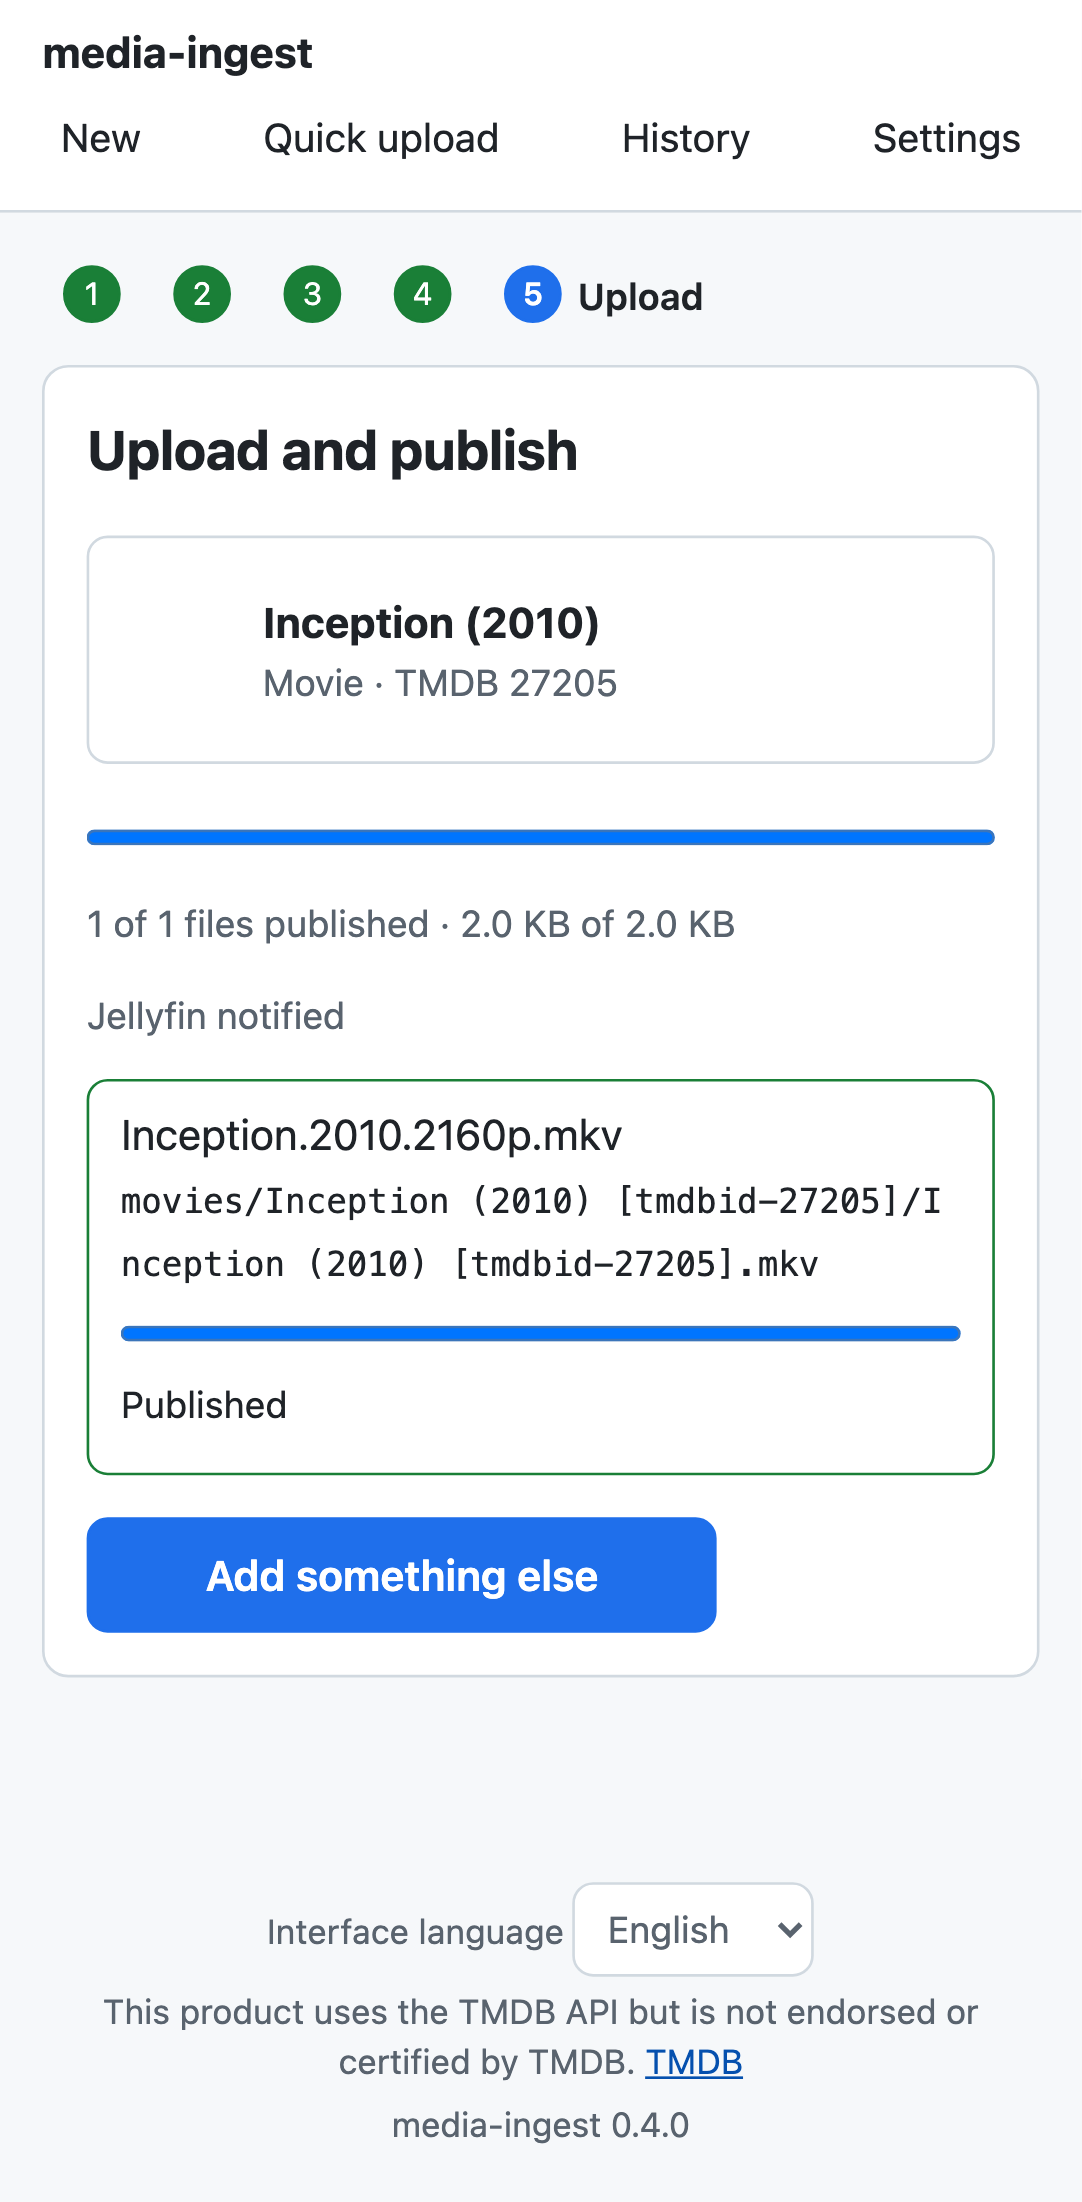
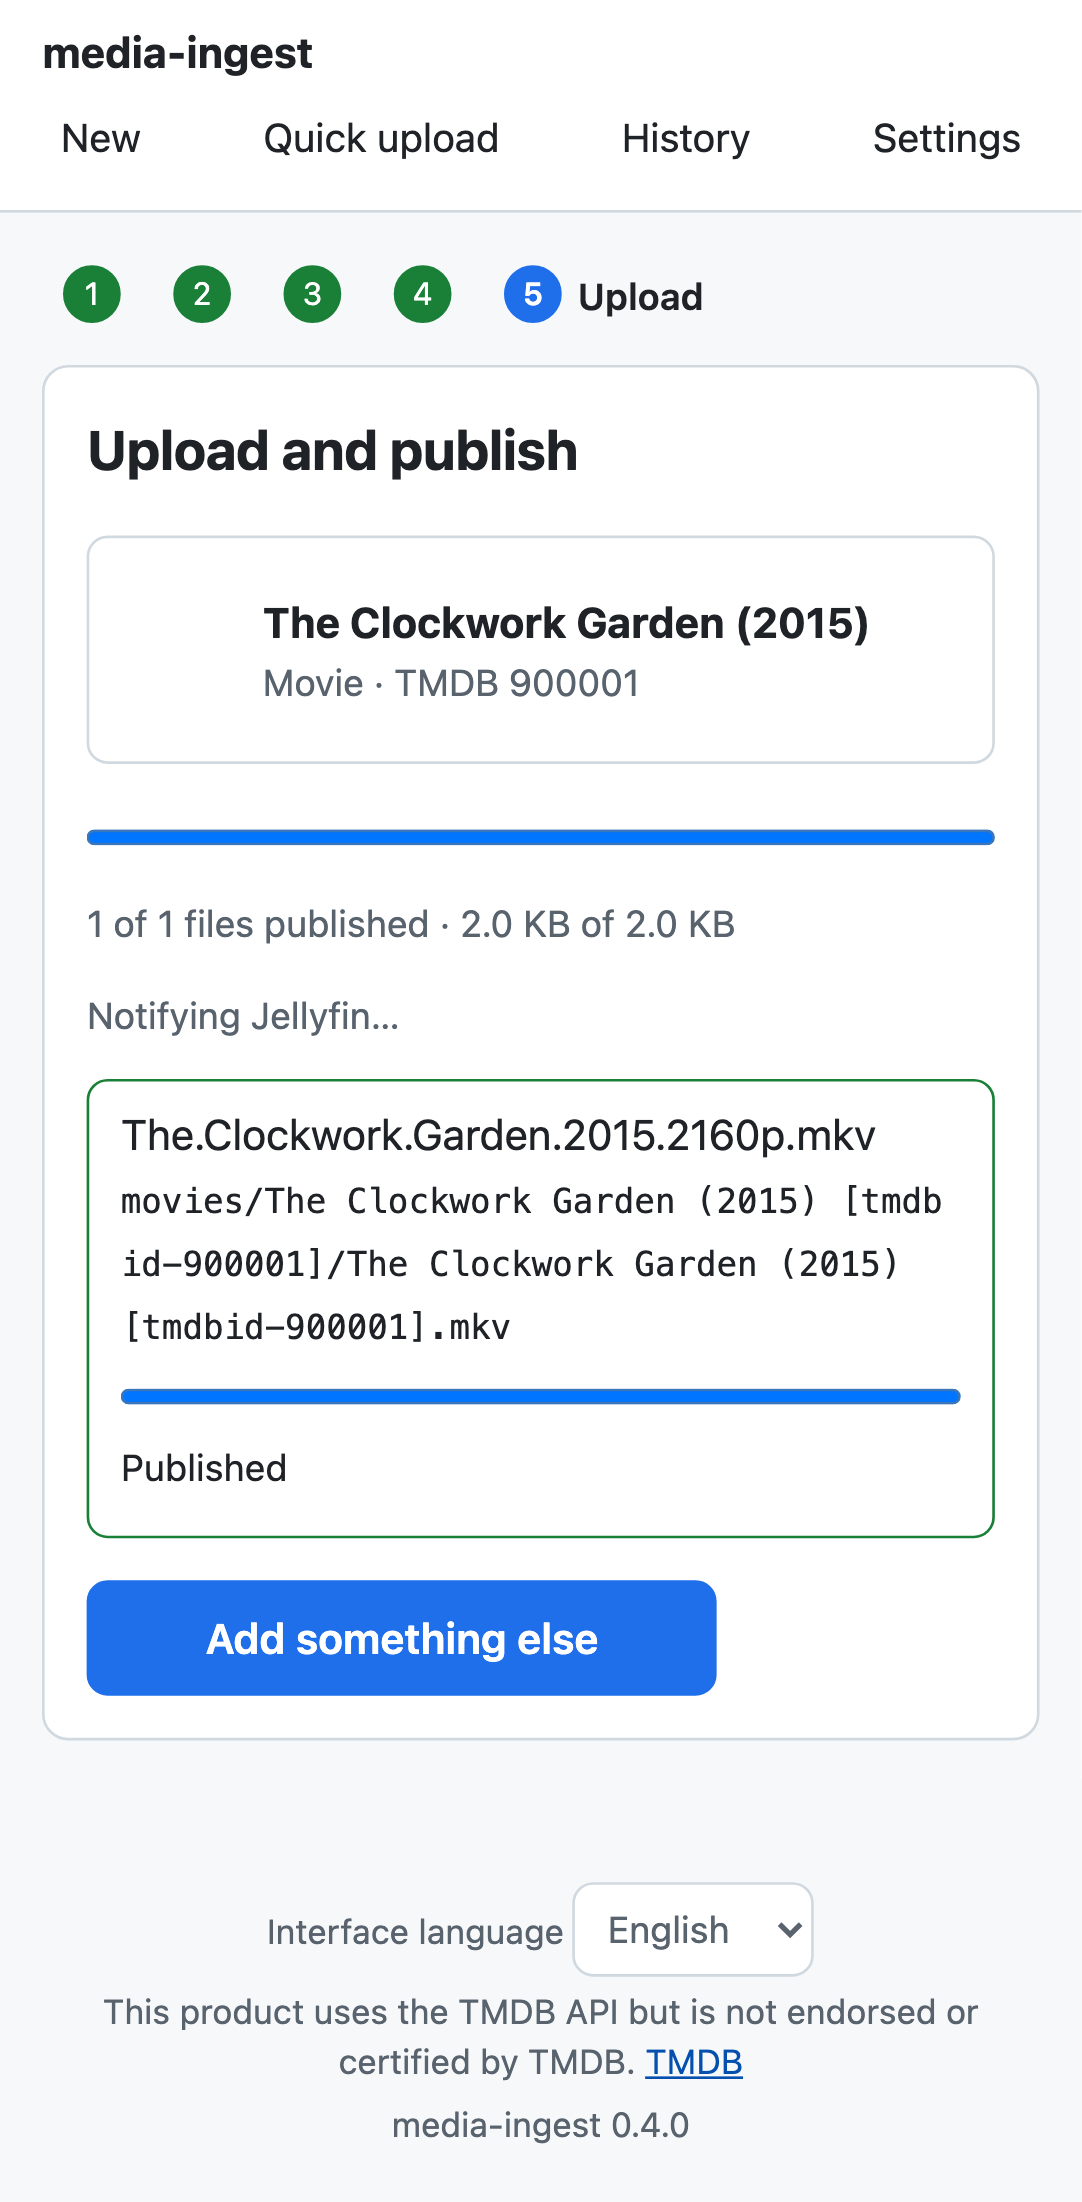
Update docs

Changed region(s): [[0.061, 0.4323, 0.8845, 0.772], [0.244, 0.2779, 0.8235, 0.3397], [0.0915, 0.4323, 0.183, 0.4632]]

diff --git a/internal/server/server_test.go b/internal/server/server_test.go
@@ -198,7 +198,7 @@ func TestStrictJSON(t *testing.T) {
 }
 
 func movieReq(items ...map[string]any) map[string]any {
-	return map[string]any{"provider": "tmdb", "id": "27205", "language": "en-US", "folder": map[string]any{"mode": "auto"}, "items": items}
+	return map[string]any{"provider": "tmdb", "id": "900001", "language": "en-US", "folder": map[string]any{"mode": "auto"}, "items": items}
 }
 
 func movieItem(key, name string, size int) map[string]any {
@@ -236,8 +236,8 @@ func (e *env) upload(batchID, itemID string, data []byte) {
 
 func TestMovieFlowEndToEnd(t *testing.T) {
 	e := newEnv(t, config.AuthProxy)
-	req := movieReq(movieItem("m1", "Inception.2010.1080p.BluRay.mkv", 10),
-		map[string]any{"key": "s1", "name": "inception.en.forced.srt", "size": 4, "role": "subtitle", "lang": "en", "forced": true},
+	req := movieReq(movieItem("m1", "The.Clockwork.Garden.2015.1080p.BluRay.mkv", 10),
+		map[string]any{"key": "s1", "name": "clockwork.en.forced.srt", "size": 4, "role": "subtitle", "lang": "en", "forced": true},
 		map[string]any{"key": "x1", "name": "trailer.mp4", "size": 6, "role": "extra", "extraType": "trailer", "label": "Official Trailer"})
 
 	var plan ingest.Plan
@@ -245,9 +245,9 @@ func TestMovieFlowEndToEnd(t *testing.T) {
 		t.Fatalf("plan: %d", code)
 	}
 	want := map[string]string{
-		"m1": "movies/Inception (2010) [tmdbid-27205]/Inception (2010) [tmdbid-27205].mkv",
-		"s1": "movies/Inception (2010) [tmdbid-27205]/Inception (2010) [tmdbid-27205].en.forced.srt",
-		"x1": "movies/Inception (2010) [tmdbid-27205]/Trailers/Official Trailer.mp4",
+		"m1": "movies/The Clockwork Garden (2015) [tmdbid-900001]/The Clockwork Garden (2015) [tmdbid-900001].mkv",
+		"s1": "movies/The Clockwork Garden (2015) [tmdbid-900001]/The Clockwork Garden (2015) [tmdbid-900001].en.forced.srt",
+		"x1": "movies/The Clockwork Garden (2015) [tmdbid-900001]/Trailers/Official Trailer.mp4",
 	}
 	for _, it := range plan.Items {
 		if it.Path != want[it.Key] {
@@ -285,7 +285,7 @@ func TestMovieFlowEndToEnd(t *testing.T) {
 			t.Errorf("%s mode %v", it.Key, fi.Mode().Perm())
 		}
 	}
-	di, _ := os.Stat(filepath.Join(e.media, "movies/Inception (2010) [tmdbid-27205]"))
+	di, _ := os.Stat(filepath.Join(e.media, "movies/The Clockwork Garden (2015) [tmdbid-900001]"))
 	if di.Mode().Perm() != 0o755 {
 		t.Errorf("dir mode %v", di.Mode().Perm())
 	}
@@ -307,7 +307,7 @@ func TestMovieFlowEndToEnd(t *testing.T) {
 	e.json("POST", "/api/batches/movie", req2, &batch)
 	e.upload(batch.ID, batch.Items[0].ID, []byte("new"))
 	e.json("GET", "/api/batches/"+batch.ID, nil, &got)
-	if p := got.Items[0].FinalPath; p != "movies/Inception (2010) [tmdbid-27205]/Inception (2010) [tmdbid-27205] - Version 2.mkv" {
+	if p := got.Items[0].FinalPath; p != "movies/The Clockwork Garden (2015) [tmdbid-900001]/The Clockwork Garden (2015) [tmdbid-900001] - Version 2.mkv" {
 		t.Fatalf("keep both path %q", p)
 	}
 	if b, _ := os.ReadFile(filepath.Join(e.media, want["m1"])); string(b) != "0123456789" {
@@ -358,7 +358,7 @@ func TestHostileInputs(t *testing.T) {
 		req  map[string]any
 		code string
 	}{
-		"junk":         {movieReq(movieItem("m1", "._Inception.mkv", 5)), "junk_file"},
+		"junk":         {movieReq(movieItem("m1", "._Clockwork.mkv", 5)), "junk_file"},
 		"ds_store":     {movieReq(movieItem("m1", ".DS_Store", 5)), "junk_file"},
 		"extension":    {movieReq(movieItem("m1", "evil.exe", 5)), "extension_not_allowed"},
 		"no extension": {movieReq(movieItem("m1", "noext", 5)), "extension_not_allowed"},
@@ -389,11 +389,11 @@ func TestHostileInputs(t *testing.T) {
 	// A title full of path tricks still yields a single safe folder.
 	var plan ingest.Plan
 	r := movieReq(movieItem("m1", "a.mkv", 5))
-	r["id"] = "100"
+	r["id"] = "900003"
 	if code := e.json("POST", "/api/plan/movie", r, &plan); code != 200 {
 		t.Fatalf("plan: %d", code)
 	}
-	if p := plan.Items[0].Path; p != "movies/Amélie - The Fabulous - Destiny (2001) [tmdbid-100]/Amélie - The Fabulous - Destiny (2001) [tmdbid-100].mkv" {
+	if p := plan.Items[0].Path; p != "movies/Émile - The Lost - Found (2001) [tmdbid-900003]/Émile - The Lost - Found (2001) [tmdbid-900003].mkv" {
 		t.Fatalf("path %q", p)
 	}
 	// An edited display title is sanitized the same way.
@@ -548,22 +548,22 @@ func TestSetupPage(t *testing.T) {
 
 func TestFolderReuseByProviderID(t *testing.T) {
 	e := newEnv(t, config.AuthProxy)
-	os.MkdirAll(filepath.Join(e.media, "movies", "Inception {tmdb-27205}"), 0o755)
-	os.MkdirAll(filepath.Join(e.media, "movies", "Inception (2010)"), 0o755)
+	os.MkdirAll(filepath.Join(e.media, "movies", "The Clockwork Garden {tmdb-900001}"), 0o755)
+	os.MkdirAll(filepath.Join(e.media, "movies", "The Clockwork Garden (2015)"), 0o755)
 	var plan ingest.Plan
 	e.json("POST", "/api/plan/movie", movieReq(movieItem("m1", "a.mkv", 5)), &plan)
-	if plan.Folder != "Inception {tmdb-27205}" || plan.FolderSource != "existing-id" {
+	if plan.Folder != "The Clockwork Garden {tmdb-900001}" || plan.FolderSource != "existing-id" {
 		t.Fatalf("%+v", plan)
 	}
-	os.Remove(filepath.Join(e.media, "movies", "Inception {tmdb-27205}"))
+	os.Remove(filepath.Join(e.media, "movies", "The Clockwork Garden {tmdb-900001}"))
 	e.json("POST", "/api/plan/movie", movieReq(movieItem("m1", "a.mkv", 5)), &plan)
-	if plan.FolderSource != "new" || len(plan.FolderCandidates) != 1 || plan.FolderCandidates[0] != "Inception (2010)" {
+	if plan.FolderSource != "new" || len(plan.FolderCandidates) != 1 || plan.FolderCandidates[0] != "The Clockwork Garden (2015)" {
 		t.Fatalf("%+v", plan)
 	}
 	r := movieReq(movieItem("m1", "a.mkv", 5))
-	r["folder"] = map[string]any{"mode": "existing", "name": "Inception (2010)"}
+	r["folder"] = map[string]any{"mode": "existing", "name": "The Clockwork Garden (2015)"}
 	e.json("POST", "/api/plan/movie", r, &plan)
-	if plan.Items[0].Path != "movies/Inception (2010)/Inception (2010) [tmdbid-27205].mkv" {
+	if plan.Items[0].Path != "movies/The Clockwork Garden (2015)/The Clockwork Garden (2015) [tmdbid-900001].mkv" {
 		t.Fatalf("%q", plan.Items[0].Path)
 	}
 }

diff --git a/internal/naming/naming_test.go b/internal/naming/naming_test.go
@@ -27,7 +27,7 @@ func TestSanitizeComponent(t *testing.T) {
 		{"zero\u200Bwidth", "zerowidth"},     // zero-width space removed
 		{"fake\u2215slash", "fake-slash"},    // division slash
 		{"full\uFF0Fwidth", "full-width"},    // fullwidth solidus
-		{"Ame\u0301lie", "Amélie"},           // NFD -> NFC
+		{"E\u0301mile", "Émile"},             // NFD -> NFC
 		{"Şahsiyet", "Şahsiyet"},             // non-ASCII kept
 		{"a|b", "a-b"},
 		{"<script>", "script"},
@@ -70,18 +70,18 @@ func TestExt(t *testing.T) {
 }
 
 func TestPresetsRender(t *testing.T) {
-	movie := Vars{"title": "Inception", "year": 2010, "id": "27205"}
-	tv := Vars{"show": "Dark", "year": 2017, "id": "70523", "season": 1, "episode": 3, "episode_title": "Past and Present"}
+	movie := Vars{"title": "The Clockwork Garden", "year": 2015, "id": "900001"}
+	tv := Vars{"show": "Northwind", "year": 2017, "id": "900200", "season": 1, "episode": 3, "episode_title": "Old Tides"}
 	tests := []struct {
 		preset, kind string
 		vars         Vars
 		want         string
 	}{
-		{"jellyfin", "movie", movie, "Inception (2010) [tmdbid-27205]/Inception (2010) [tmdbid-27205]"},
-		{"plex", "movie", movie, "Inception (2010) {tmdb-27205}/Inception (2010) {tmdb-27205}"},
-		{"emby", "movie", movie, "Inception (2010) [tmdbid=27205]/Inception (2010)"},
-		{"jellyfin", "tv", tv, "Dark (2017) [tmdbid-70523]/Season 01/Dark - S01E03 - Past and Present"},
-		{"plex", "tv", tv, "Dark (2017) {tmdb-70523}/Season 01/Dark (2017) - s01e03 - Past and Present"},
+		{"jellyfin", "movie", movie, "The Clockwork Garden (2015) [tmdbid-900001]/The Clockwork Garden (2015) [tmdbid-900001]"},
+		{"plex", "movie", movie, "The Clockwork Garden (2015) {tmdb-900001}/The Clockwork Garden (2015) {tmdb-900001}"},
+		{"emby", "movie", movie, "The Clockwork Garden (2015) [tmdbid=900001]/The Clockwork Garden (2015)"},
+		{"jellyfin", "tv", tv, "Northwind (2017) [tmdbid-900200]/Season 01/Northwind - S01E03 - Old Tides"},
+		{"plex", "tv", tv, "Northwind (2017) {tmdb-900200}/Season 01/Northwind (2017) - s01e03 - Old Tides"},
 	}
 	for _, tt := range tests {
 		p := Presets[tt.preset]

diff --git a/internal/server/tv_test.go b/internal/server/tv_test.go
@@ -11,10 +11,10 @@ import (
 	"github.com/configtheworld/media-digest/internal/ingest"
 )
 
-const show = "tv/Harbor Lights (2019) [tmdbid-9001]"
+const show = "tv/Harbor Lights (2019) [tmdbid-900100]"
 
 func tvReq(items ...map[string]any) map[string]any {
-	return map[string]any{"provider": "tmdb", "id": "9001", "language": "en-US", "folder": map[string]any{"mode": "auto"}, "items": items}
+	return map[string]any{"provider": "tmdb", "id": "900100", "language": "en-US", "folder": map[string]any{"mode": "auto"}, "items": items}
 }
 
 func ep(key, name string, season, episode int, extra ...any) map[string]any {
@@ -123,7 +123,7 @@ func TestTVLibraryAwarenessAndReplace(t *testing.T) {
 	os.WriteFile(filepath.Join(e.media, show, "Season 01", "Harbor.Lights.S01E05E06.mkv"), []byte("x"), 0o644)
 
 	var lib ingest.LibraryView
-	if code := e.json("GET", "/api/library/tmdb/tv/9001?lang=en-US", nil, &lib); code != 200 {
+	if code := e.json("GET", "/api/library/tmdb/tv/900100?lang=en-US", nil, &lib); code != 200 {
 		t.Fatalf("library: %d", code)
 	}
 	have := map[string]bool{}
@@ -205,10 +205,10 @@ func TestTVKeepBothWithExistingEpisode(t *testing.T) {
 
 func TestTVFolderReuse(t *testing.T) {
 	e := newEnv(t, config.AuthProxy)
-	os.MkdirAll(filepath.Join(e.media, "tv", "Harbor Lights {tmdb-9001}", "Season 1"), 0o755)
+	os.MkdirAll(filepath.Join(e.media, "tv", "Harbor Lights {tmdb-900100}", "Season 1"), 0o755)
 	var plan ingest.Plan
 	e.json("POST", "/api/plan/tv", tvReq(ep("a", "a.mkv", 2, 1)), &plan)
-	if plan.FolderSource != "existing-id" || paths(plan)["a"] != "tv/Harbor Lights {tmdb-9001}/Season 02/Harbor Lights - S02E01 - Return.mkv" {
+	if plan.FolderSource != "existing-id" || paths(plan)["a"] != "tv/Harbor Lights {tmdb-900100}/Season 02/Harbor Lights - S02E01 - Return.mkv" {
 		t.Fatalf("%+v", plan)
 	}
 }

diff --git a/internal/provider/tmdb/tmdb_test.go b/internal/provider/tmdb/tmdb_test.go
@@ -25,16 +25,16 @@ func newTest(t *testing.T, key string, h http.HandlerFunc) *Client {
 func TestSearchMovie(t *testing.T) {
 	c := newTest(t, "k123", func(w http.ResponseWriter, r *http.Request) {
 		if r.URL.Path != "/search/movie" || r.URL.Query().Get("api_key") != "k123" ||
-			r.URL.Query().Get("language") != "de-DE" || r.URL.Query().Get("query") != "Inception" {
+			r.URL.Query().Get("language") != "de-DE" || r.URL.Query().Get("query") != "The Clockwork Garden" {
 			t.Errorf("unexpected request %s", r.URL)
 		}
-		w.Write([]byte(`{"page":1,"total_pages":1,"results":[{"id":27205,"title":"Inception","original_title":"Inception","release_date":"2010-07-15","overview":"x","poster_path":"/p.jpg"}]}`))
+		w.Write([]byte(`{"page":1,"total_pages":1,"results":[{"id":900001,"title":"The Clockwork Garden","original_title":"The Clockwork Garden","release_date":"2015-04-17","overview":"x","poster_path":"/p.jpg"}]}`))
 	})
-	res, err := c.Search(context.Background(), provider.Movie, "Inception", "de-DE", 1)
+	res, err := c.Search(context.Background(), provider.Movie, "The Clockwork Garden", "de-DE", 1)
 	if err != nil {
 		t.Fatal(err)
 	}
-	if len(res.Results) != 1 || res.Results[0].ID != "27205" || res.Results[0].Year != 2010 || res.Results[0].Original != "" {
+	if len(res.Results) != 1 || res.Results[0].ID != "900001" || res.Results[0].Year != 2015 || res.Results[0].Original != "" {
 		t.Fatalf("%+v", res)
 	}
 }

diff --git a/internal/provider/fake/fake.go b/internal/provider/fake/fake.go
@@ -18,16 +18,16 @@ type Provider struct {
 
 func New() *Provider {
 	return &Provider{Movies: map[string]*provider.MovieDetails{
-		"27205": {ID: "27205", Title: "Inception", Year: 2010},
-		"100":   {ID: "100", Title: "Amélie: The Fabulous / Destiny?", Original: "Le Fabuleux Destin d'Amélie Poulain", Year: 2001},
-		"200":   {ID: "200", Title: "Untitled", Year: 0},
+		"900001": {ID: "900001", Title: "The Clockwork Garden", Year: 2015},
+		"900003": {ID: "900003", Title: "Émile: The Lost / Found?", Original: "L'Étrange Voyage d'Émile", Year: 2001},
+		"200":    {ID: "200", Title: "Untitled", Year: 0},
 	},
 		Shows: map[string]*provider.ShowDetails{
-			"9001": {ID: "9001", Title: "Harbor Lights", Year: 2019, Seasons: []provider.SeasonSummary{
+			"900100": {ID: "900100", Title: "Harbor Lights", Year: 2019, Seasons: []provider.SeasonSummary{
 				{Number: 0, Name: "Specials", EpisodeCount: 2}, {Number: 1, Name: "Season 1", EpisodeCount: 6}, {Number: 2, Name: "Season 2", EpisodeCount: 4}}},
 		},
 		Seasons: map[string]map[int]*provider.SeasonDetails{
-			"9001": {
+			"900100": {
 				0: {Number: 0, Name: "Specials", Episodes: eps("Behind the Harbor", "Lost Tapes")},
 				1: {Number: 1, Name: "Season 1", Episodes: eps("Arrival", "Fog", "Undertow", "Low Tide", "Beacon", "Homecoming")},
 				2: {Number: 2, Name: "Season 2", Episodes: eps("Return", "Drift", "Storm", "Dawn")},

diff --git a/internal/server/m3_test.go b/internal/server/m3_test.go
@@ -147,7 +147,7 @@ func TestUndoPrunesEmptyFolders(t *testing.T) {
 	if code := e.json("POST", "/api/batches/"+batch.ID+"/undo", nil, nil); code != 200 {
 		t.Fatalf("undo %d", code)
 	}
-	if _, err := os.Stat(filepath.Join(e.media, "movies", "Inception (2010) [tmdbid-27205]")); !os.IsNotExist(err) {
+	if _, err := os.Stat(filepath.Join(e.media, "movies", "The Clockwork Garden (2015) [tmdbid-900001]")); !os.IsNotExist(err) {
 		t.Fatal("empty movie folder should be removed")
 	}
 	if _, err := os.Stat(filepath.Join(e.media, "movies")); err != nil {

diff --git a/docs/naming.md b/docs/naming.md
@@ -17,13 +17,13 @@ Choose in **Settings → Naming**. The extension is always appended automaticall
 Results, Jellyfin preset:
 
 ```
-movies/Inception (2010) [tmdbid-27205]/Inception (2010) [tmdbid-27205].mkv
-movies/Inception (2010) [tmdbid-27205]/Inception (2010) [tmdbid-27205] - 2160p.mkv     (version)
-movies/Inception (2010) [tmdbid-27205]/Inception (2010) [tmdbid-27205].en.forced.srt   (subtitle)
-movies/Inception (2010) [tmdbid-27205]/Trailers/Official Trailer.mp4                     (extra)
-tv/Dark (2017) [tmdbid-70523]/Season 01/Dark - S01E02 - Lies.mkv
-tv/Dark (2017) [tmdbid-70523]/Season 01/Dark - S01E03-E04 - Past and Present & Double Lives.mkv
-tv/Dark (2017) [tmdbid-70523]/Season 00/Dark - S00E01 - ….mkv                          (special)
+movies/The Clockwork Garden (2015) [tmdbid-900001]/The Clockwork Garden (2015) [tmdbid-900001].mkv
+movies/The Clockwork Garden (2015) [tmdbid-900001]/The Clockwork Garden (2015) [tmdbid-900001] - 2160p.mkv     (version)
+movies/The Clockwork Garden (2015) [tmdbid-900001]/The Clockwork Garden (2015) [tmdbid-900001].en.forced.srt   (subtitle)
+movies/The Clockwork Garden (2015) [tmdbid-900001]/Trailers/Official Trailer.mp4                     (extra)
+tv/Harbor Lights (2019) [tmdbid-900100]/Season 01/Harbor Lights - S01E02 - Fog.mkv
+tv/Harbor Lights (2019) [tmdbid-900100]/Season 01/Harbor Lights - S01E03-E04 - Undertow & Low Tide.mkv
+tv/Harbor Lights (2019) [tmdbid-900100]/Season 00/Harbor Lights - S00E01 - Behind the Harbor.mkv                          (special)
 ```
 
 ## Template syntax

diff --git a/README.md b/README.md
@@ -68,8 +68,8 @@ Full guides: **[deployment](docs/deployment.md)** · **[reverse proxies](docs/re
    step that fails instead of overwriting. Replaced files go to `.trash`, and **Undo** puts them back.
 
 ```
-movies/Inception (2010) [tmdbid-27205]/Inception (2010) [tmdbid-27205].mkv
-tv/Dark (2017) [tmdbid-70523]/Season 01/Dark - S01E02 - Lies.mkv
+movies/The Clockwork Garden (2015) [tmdbid-900001]/The Clockwork Garden (2015) [tmdbid-900001].mkv
+tv/Harbor Lights (2019) [tmdbid-900100]/Season 01/Harbor Lights - S01E02 - Fog.mkv
 ```
 
 ## Screenshots

diff --git a/CHANGELOG.md b/CHANGELOG.md
@@ -5,6 +5,10 @@ All notable changes to this project are documented here. The project follows
 
 ## [Unreleased]
 
+### Changed
+- Tests, fixtures, documentation and screenshots use fictional titles and ids instead of real movies
+  and shows.
+
 ## [0.4.0] - 2026-10-17
 
 ### Added
